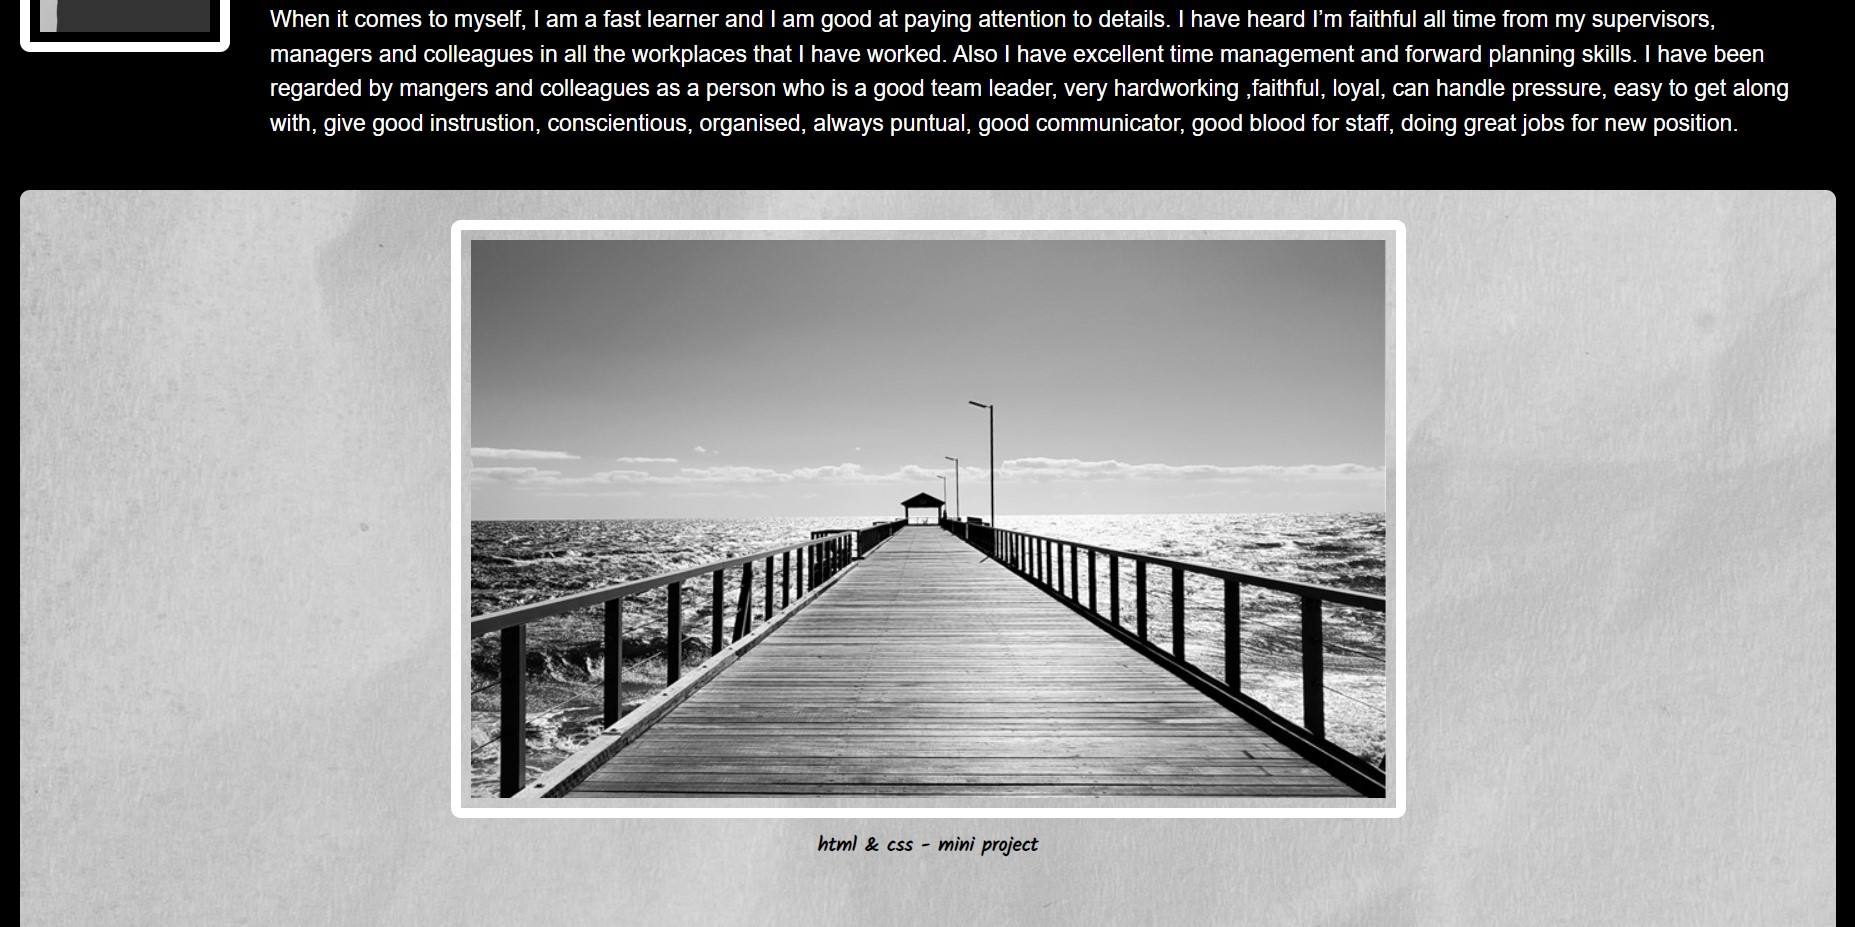
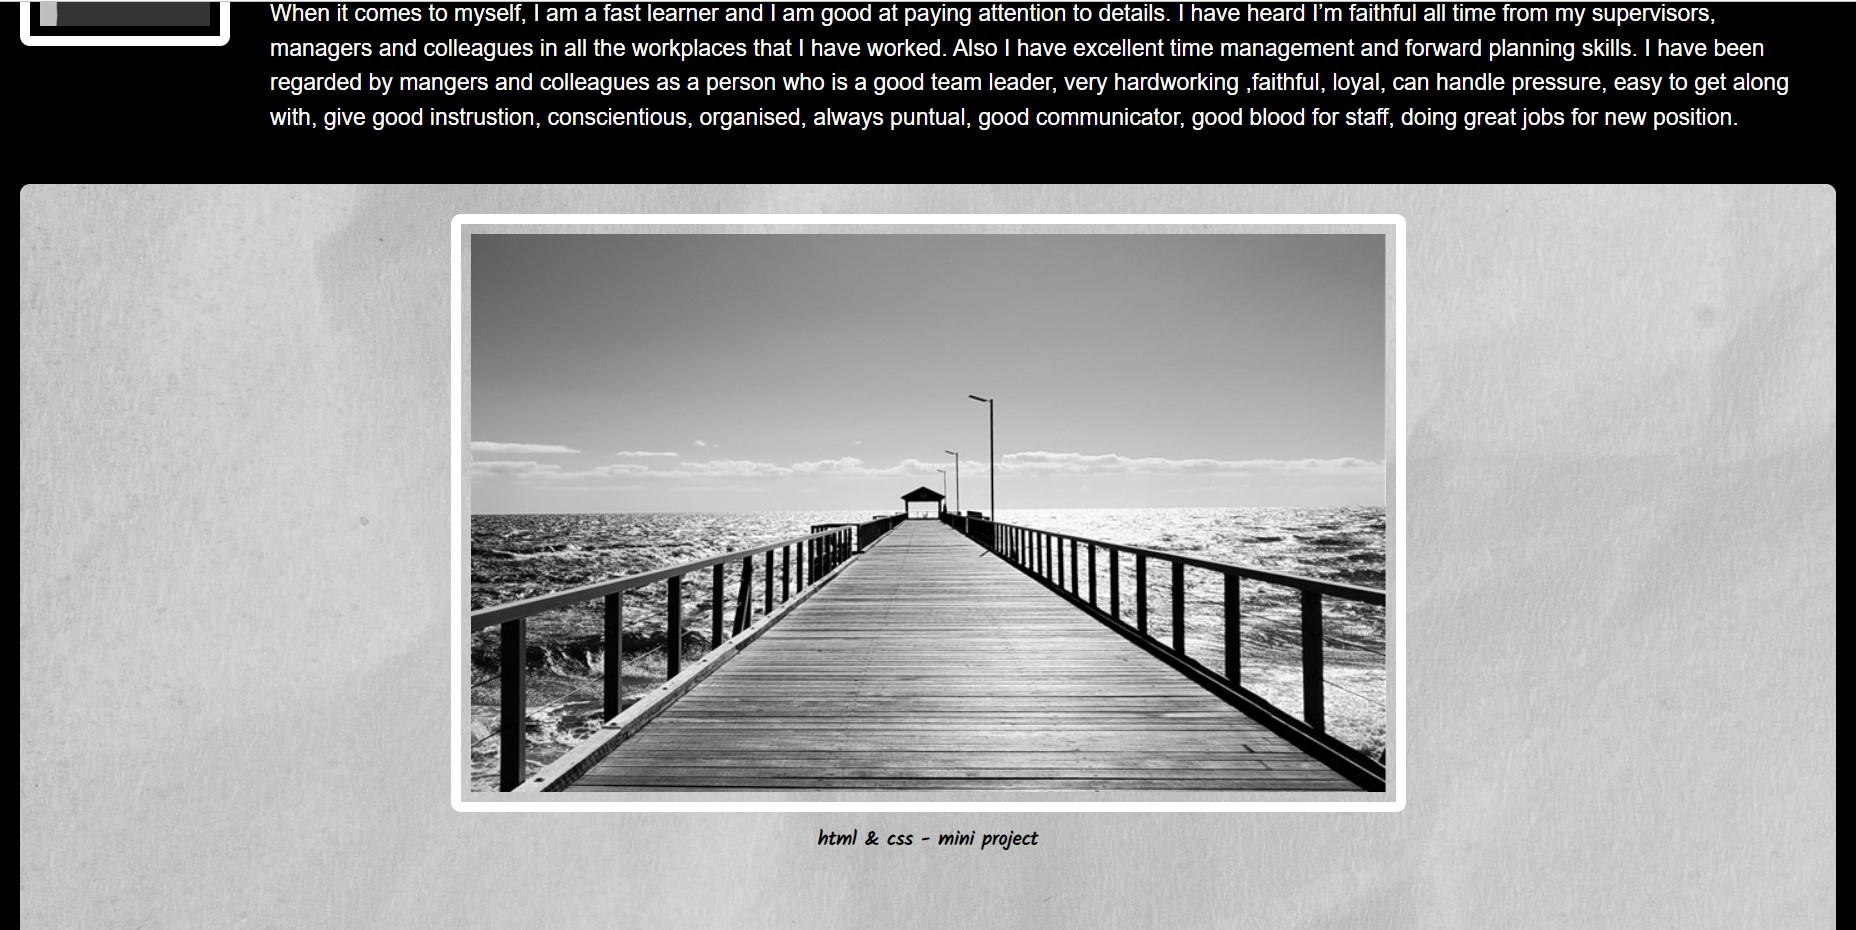
hyunsik kayden kim portfolio fianl

diff --git a/index.html b/index.html
@@ -6,7 +6,7 @@
     <meta name="viewport" content="width=device-width, initial-scale=1.0">
     <link href='https://fonts.googleapis.com/css?family=Allan' rel='stylesheet'>
     <link href='https://fonts.googleapis.com/css?family=Kalam' rel='stylesheet'>
-    <link rel="stylesheet" href="./assets/CSS/reset.css">
+    <link rel="stylesheet" href="./assets/reset/reset.css">
     <link rel="stylesheet" href="./assets/style.css">
     <title>Hyunsik Kim (kayden)- Portfolio</title>
     <link rel="shortcut icon" href="./assets/images/logo4.jpg">

diff --git a/assets/style.css b/assets/style.css
@@ -287,6 +287,13 @@ figcaption {
         font-size: 100px;
     }
 
+    #p-parent p:nth-child(2) {
+        font-size: 35px;
+        font-family: 'Kalam';
+        margin-top: 100px;
+        margin-left: 20px;
+    }
+
 }
 
 /* this works when the screen is smaller than 764px. */

diff --git a/README.md b/README.md
@@ -20,7 +20,7 @@ To read my portfolio easily, click each item in navigation bar. Once you click, 
 
 ![webpage top image](./assets/images/Screenshot-top.jpg)
 ![webpage middle image](./assets/images/Screenshot-middle.jpg)
-![webpage bottom image](./assets/images/Screenshot-bottom.jpg)
+![webpage bottom image](./assets/images/Screenshot%20bottom.jpg)
 
 URL = https://kayden-hyunsikkim.github.io/hyunsik-kayden-kim-portfolio/
 
